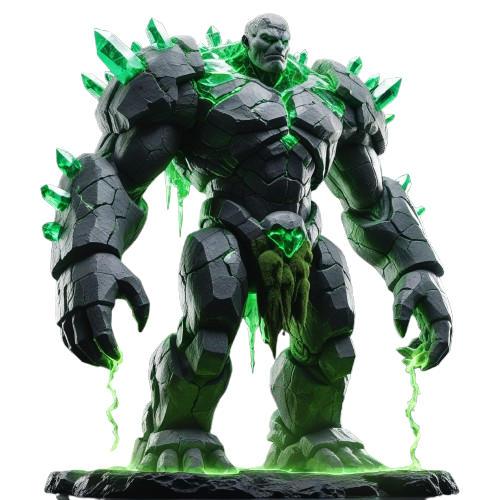
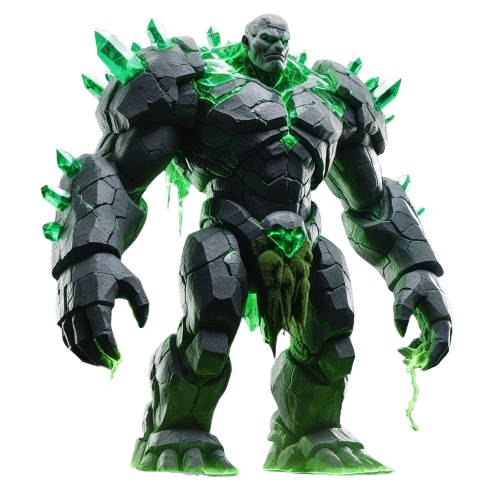
Каменный Голем: алтарь с кристаллом, резонансное дыхание (v2.5.37)
- boss_poison.png — каменный голем с зелёными кристаллами (skin 04)
- bg/poison.png — алтарь со светящимся зелёным кристаллом-монолитом (bg 4)
- CSS .bt-poison:
  · фон + animation:wb-poison-bg-pulse 3.6s — кристалл пульсирует яркостью
  · ::before тёмный туман 38% высоты у пола
  · ::after густая чёрная тень-эллипс под ногами, blur 7px,
    дышит вместе с боссом 3.6s
  · .wb-bimg2: --boss-glow:#22ff66 (ярко-зелёное), маска ног 20%
  · animation:wb-poison-glow 3.6s — синхронно с фоном (резонанс)
  · 2-слойный drop-shadow до 38px (без квадратного halo)

Все 3.6s анимации синхронны = голем и кристалл «связаны» эффектом резонанса.

Превью: /boss_scene_poison.html

diff --git a/webapp/boss_scene_poison.html b/webapp/boss_scene_poison.html
@@ -1,0 +1,153 @@
+<!doctype html>
+<html lang="ru"><head>
+<meta charset="utf-8">
+<meta name="viewport" content="width=390,initial-scale=1">
+<title>WB · Боевая сцена · КАМЕННЫЙ ГОЛЕМ</title>
+<style>
+  *{box-sizing:border-box;margin:0;padding:0}
+  html,body{height:100%}
+  body{background:#020005;color:#e0e0e0;font:14px -apple-system,Segoe UI,Roboto,sans-serif;
+    display:flex;align-items:center;justify-content:center;min-height:100vh;padding:18px;}
+  .row{display:flex;flex-wrap:wrap;align-items:flex-start;gap:18px;}
+
+  .scene{position:relative;width:390px;height:680px;border-radius:14px;overflow:hidden;
+    background:#020a05;border:1px solid rgba(34,255,102,.35);
+    box-shadow:0 0 60px rgba(0,200,80,.25);}
+
+  /* ── 1. ФОН ── (с пульсацией кристалла, 3.6s = резонанс с дыханием босса) */
+  .bg{position:absolute;inset:0;z-index:1;
+    background-image:url('bosses/bg/poison.png');
+    background-size:cover;background-position:center bottom;
+    animation:bg-pulse 3.6s ease-in-out infinite;}
+  @keyframes bg-pulse{
+    0%,100%{filter:brightness(.95) saturate(1.05)}
+    50%   {filter:brightness(1.12) saturate(1.25)}}
+  /* Тёмный туман у пола */
+  .bg::after{content:"";position:absolute;left:0;right:0;bottom:0;height:38%;
+    background:linear-gradient(to top,
+      rgba(0,0,0,.85) 0%, rgba(5,25,12,.55) 35%,
+      rgba(5,25,12,.15) 70%, transparent 100%);
+    pointer-events:none;}
+
+  /* ── 2. БОСС ── (центр, перекрывает нижнюю часть кристалла) */
+  .boss-wrap{position:absolute;left:50%;bottom:11%;z-index:5;
+    transform:translateX(-50%);pointer-events:none;
+    height:62%;}
+  .boss{height:100%;width:auto;display:block;
+    -webkit-mask-image:linear-gradient(to bottom,
+      black 0%, black 80%, rgba(0,0,0,.55) 92%, transparent 100%);
+    mask-image:linear-gradient(to bottom,
+      black 0%, black 80%, rgba(0,0,0,.55) 92%, transparent 100%);
+    animation:boss-breathe 3.6s ease-in-out infinite,
+              boss-glow 3.6s ease-in-out infinite;}
+  /* Дыхание в резонанс с фоном — обе анимации 3.6s, синхронны */
+  @keyframes boss-breathe{
+    0%,100%{transform:scale(1)    translateY(0)}
+    50%   {transform:scale(1.025) translateY(-3px)}}
+  @keyframes boss-glow{
+    0%,100%{filter:
+      drop-shadow(0 0 10px rgba(34,255,102,.7))
+      drop-shadow(0 0 22px rgba(0,200,80,.55))
+      brightness(1)
+      saturate(1.1);}
+    50%{filter:
+      drop-shadow(0 0 18px rgba(80,255,140,.95))
+      drop-shadow(0 0 38px rgba(20,220,90,.8))
+      brightness(1.15)
+      saturate(1.3);}}
+
+  /* Густая контактная тень под ногами */
+  .boss-shadow{position:absolute;left:50%;bottom:10%;z-index:4;
+    width:42%;height:20px;
+    transform:translateX(-50%);pointer-events:none;
+    background:radial-gradient(ellipse 50% 50% at 50% 50%,
+      rgba(0,0,0,.95) 0%, rgba(0,0,0,.55) 45%, transparent 80%);
+    filter:blur(7px);
+    animation:shadow-breathe 3.6s ease-in-out infinite;}
+  @keyframes shadow-breathe{
+    0%,100%{transform:translateX(-50%) scale(1) }
+    50%   {transform:translateX(-50%) scale(.93)}}
+
+  /* ── 3. ЧАСТИЦЫ — зелёные споры ── */
+  .vfx{position:absolute;inset:0;z-index:6;pointer-events:none;overflow:hidden;}
+  .p{position:absolute;width:5px;height:5px;border-radius:50%;
+    background:#44ff77;
+    box-shadow:0 0 10px #44ff77,0 0 20px #00cc55;
+    opacity:0;animation:p-up 6s linear infinite;}
+  .p.s2{width:3px;height:3px;animation-duration:7.5s;}
+  .p.s3{width:7px;height:7px;animation-duration:7s;opacity:.6;}
+  @keyframes p-up{
+    0%{transform:translateY(0) scale(.3);opacity:0}
+    10%{opacity:.95}
+    85%{opacity:.7}
+    100%{transform:translateY(-440px) scale(1);opacity:0}}
+  .p:nth-child(1){left:8%; bottom:8%; animation-delay:.0s}
+  .p:nth-child(2){left:20%;bottom:8%; animation-delay:1.4s}
+  .p:nth-child(3){left:32%;bottom:6%; animation-delay:.7s}
+  .p:nth-child(4){left:44%;bottom:8%; animation-delay:2.1s}
+  .p:nth-child(5){left:56%;bottom:6%; animation-delay:.3s}
+  .p:nth-child(6){left:68%;bottom:8%; animation-delay:1.8s}
+  .p:nth-child(7){left:80%;bottom:8%; animation-delay:1.1s}
+  .p:nth-child(8){left:92%;bottom:6%; animation-delay:2.5s}
+  .p:nth-child(9){left:14%;bottom:7%; animation-delay:3.2s}
+  .p:nth-child(10){left:38%;bottom:8%;animation-delay:4.0s}
+  .p:nth-child(11){left:62%;bottom:7%;animation-delay:3.5s}
+  .p:nth-child(12){left:86%;bottom:6%;animation-delay:.6s}
+  .p:nth-child(13){left:26%;bottom:8%;animation-delay:2.7s}
+  .p:nth-child(14){left:74%;bottom:7%;animation-delay:.5s}
+  .p:nth-child(15){left:50%;bottom:6%;animation-delay:3.7s}
+  .p:nth-child(16){left:18%;bottom:7%;animation-delay:5.0s}
+
+  .title{position:absolute;top:14px;left:14px;right:14px;z-index:10;
+    display:flex;justify-content:space-between;align-items:center;
+    font-size:11px;font-weight:800;letter-spacing:2px;color:#22ff66;
+    text-shadow:0 0 8px rgba(0,200,80,.7);text-transform:uppercase;}
+  .title .hp{font-family:'Courier New',monospace;color:#ff4488;}
+
+  .legend{max-width:340px;font-size:12px;line-height:1.6;color:#aaffcc;}
+  .legend h3{color:#22ff66;font-size:14px;margin-bottom:10px;letter-spacing:1px;}
+  .legend code{background:rgba(34,255,102,.1);padding:1px 5px;border-radius:3px;color:#88ffaa;font-size:11px;}
+  .legend ul{padding-left:18px;margin:6px 0;}
+  .legend li{margin-bottom:4px;}
+</style>
+</head>
+<body>
+<div class="row">
+  <div class="scene">
+    <div class="bg"></div>
+    <div class="title">
+      <span>☠ КАМЕННЫЙ ГОЛЕМ</span>
+      <span class="hp">HP 13 200 / 17 500</span>
+    </div>
+    <div class="boss-shadow"></div>
+    <div class="boss-wrap">
+      <img class="boss" src="bosses/boss_poison.png" alt="Poison Golem">
+    </div>
+    <div class="vfx">
+      <div class="p"></div><div class="p s2"></div><div class="p s3"></div><div class="p"></div>
+      <div class="p"></div><div class="p s2"></div><div class="p"></div><div class="p s3"></div>
+      <div class="p s2"></div><div class="p"></div><div class="p"></div><div class="p s3"></div>
+      <div class="p"></div><div class="p s2"></div><div class="p"></div><div class="p"></div>
+    </div>
+  </div>
+
+  <div class="legend">
+    <h3>📋 Каменный Голем — что собрано</h3>
+    <ul>
+      <li><b>Фон</b> — алтарь со светящимся зелёным кристаллом-монолитом</li>
+      <li><b>Кристалл пульсирует</b> — фон <code>brightness</code> 0.95→1.12 за 3.6с</li>
+      <li><b>Босс по центру</b>, высота 62%, перекрывает нижнюю треть кристалла —
+        выглядит как страж алтаря</li>
+      <li><b>Дыхание в резонанс</b> — boss-breathe и bg-pulse оба 3.6s,
+        синхронные → ощущение что они «связаны»</li>
+      <li><b>Ярко-зелёное свечение</b> — <code>drop-shadow #22ff66</code>
+        пульсирует синхронно (глаза + кристаллы на спине)</li>
+      <li><b>Густая чёрная тень</b> — blur 7px радиальный градиент,
+        голем «прилип» к полу, не висит</li>
+      <li><b>Маска ног</b> — нижние 20% растворяются в туман</li>
+      <li><b>16 зелёных частиц</b> — споры/энергия плывут вверх</li>
+    </ul>
+  </div>
+</div>
+</body>
+</html>

diff --git a/webapp/wb_html_battle_css.js b/webapp/wb_html_battle_css.js
@@ -85,6 +85,32 @@ window.WBBattleCSS = (() => {
     rgba(0,0,0,.85) 0%, rgba(15,5,35,.55) 35%,
     rgba(15,5,35,.15) 70%, transparent 100%);}
 
+/* Каменный Голем — алтарь с зелёным кристаллом-резонатором.
+   Кристалл за боссом «дышит» в такт с боссом — эффект резонанса. */
+.wb-boss-zone.bt-poison{
+  background-image:url('bosses/bg/poison.png');
+  background-size:cover;background-position:center bottom;background-color:#020a05;
+  animation:wb-poison-bg-pulse 3.6s ease-in-out infinite;}
+@keyframes wb-poison-bg-pulse{
+  0%,100%{filter:brightness(.95) saturate(1.05)}
+  50%   {filter:brightness(1.12) saturate(1.25)}}
+/* Тёмный туман у пола — алтарь и ноги растворяются в тенях */
+.wb-boss-zone.bt-poison::before{content:"";position:absolute;left:0;right:0;bottom:0;
+  height:38%;pointer-events:none;z-index:1;
+  background:linear-gradient(to top,
+    rgba(0,0,0,.85) 0%, rgba(5,25,12,.55) 35%,
+    rgba(5,25,12,.15) 70%, transparent 100%);}
+/* Густая контактная тень под ногами голема — он «прилипает» к полу */
+.wb-boss-zone.bt-poison::after{content:"";position:absolute;left:50%;bottom:7%;
+  transform:translateX(-50%);width:42%;height:20px;pointer-events:none;z-index:1;
+  background:radial-gradient(ellipse 50% 50% at 50% 50%,
+    rgba(0,0,0,.95) 0%, rgba(0,0,0,.55) 45%, transparent 80%);
+  filter:blur(7px);
+  animation:wb-poison-shadow-breathe 3.6s ease-in-out infinite;}
+@keyframes wb-poison-shadow-breathe{
+  0%,100%{transform:translateX(-50%) scale(1)  }
+  50%   {transform:translateX(-50%) scale(.93)}}
+
 /* Огненный Колосс — крепость в лаве, ноги в потоке расплавленного металла */
 .wb-boss-zone.bt-fire{
   background-image:url('bosses/bg/fire.png');
@@ -127,6 +153,26 @@ window.WBBattleCSS = (() => {
 .wb-boss-zone.bt-lich .wb-bimg2{
   -webkit-mask-image:linear-gradient(to bottom, black 0%, black 78%, rgba(0,0,0,.55) 90%, transparent 100%);
   mask-image:linear-gradient(to bottom, black 0%, black 78%, rgba(0,0,0,.55) 90%, transparent 100%);}
+
+/* Каменный Голем: ярко-зелёное свечение + дыхание в резонанс с кристаллом */
+.wb-boss-zone.bt-poison .wb-bimg2{
+  --boss-glow:#22ff66;
+  -webkit-mask-image:linear-gradient(to bottom, black 0%, black 80%, rgba(0,0,0,.55) 92%, transparent 100%);
+  mask-image:linear-gradient(to bottom, black 0%, black 80%, rgba(0,0,0,.55) 92%, transparent 100%);
+  /* Усиленное зелёное свечение синхронно с пульсом кристалла на фоне (3.6s) */
+  animation:wb-bfloat 3.6s ease-in-out infinite,
+            wb-poison-glow 3.6s ease-in-out infinite;}
+@keyframes wb-poison-glow{
+  0%,100%{filter:
+    drop-shadow(0 0 10px rgba(34,255,102,.7))
+    drop-shadow(0 0 22px rgba(0,200,80,.55))
+    brightness(1)
+    saturate(1.1);}
+  50%{filter:
+    drop-shadow(0 0 18px rgba(80,255,140,.95))
+    drop-shadow(0 0 38px rgba(20,220,90,.8))
+    brightness(1.15)
+    saturate(1.3);}}
 
 /* Огненный Колосс: оранжевое мощное свечение + пульсация ядра + маска ног в лаву */
 .wb-boss-zone.bt-fire .wb-bimg2{

diff --git a/version.py b/version.py
@@ -3,9 +3,9 @@ version.py — текущая версия проекта Duel Arena.
 Обновляется при каждом значимом изменении.
 """
 
-VERSION = "2.5.36"
-VERSION_LABEL = "v2.5.36 — Убран «квадратный halo» вокруг боссов: blur ↓ + маска heat-haze"
+VERSION = "2.5.37"
+VERSION_LABEL = "v2.5.37 — Каменный Голем: алтарь с кристаллом, резонансное дыхание, зелёное свечение"
 
 # Игровая версия для UI (bot / mini app). Один источник истины.
 # При деплое с изменениями кода увеличивать на +0.01 (например 2.01 → 2.02).
-GAME_VERSION = "10.10"
+GAME_VERSION = "10.11"
